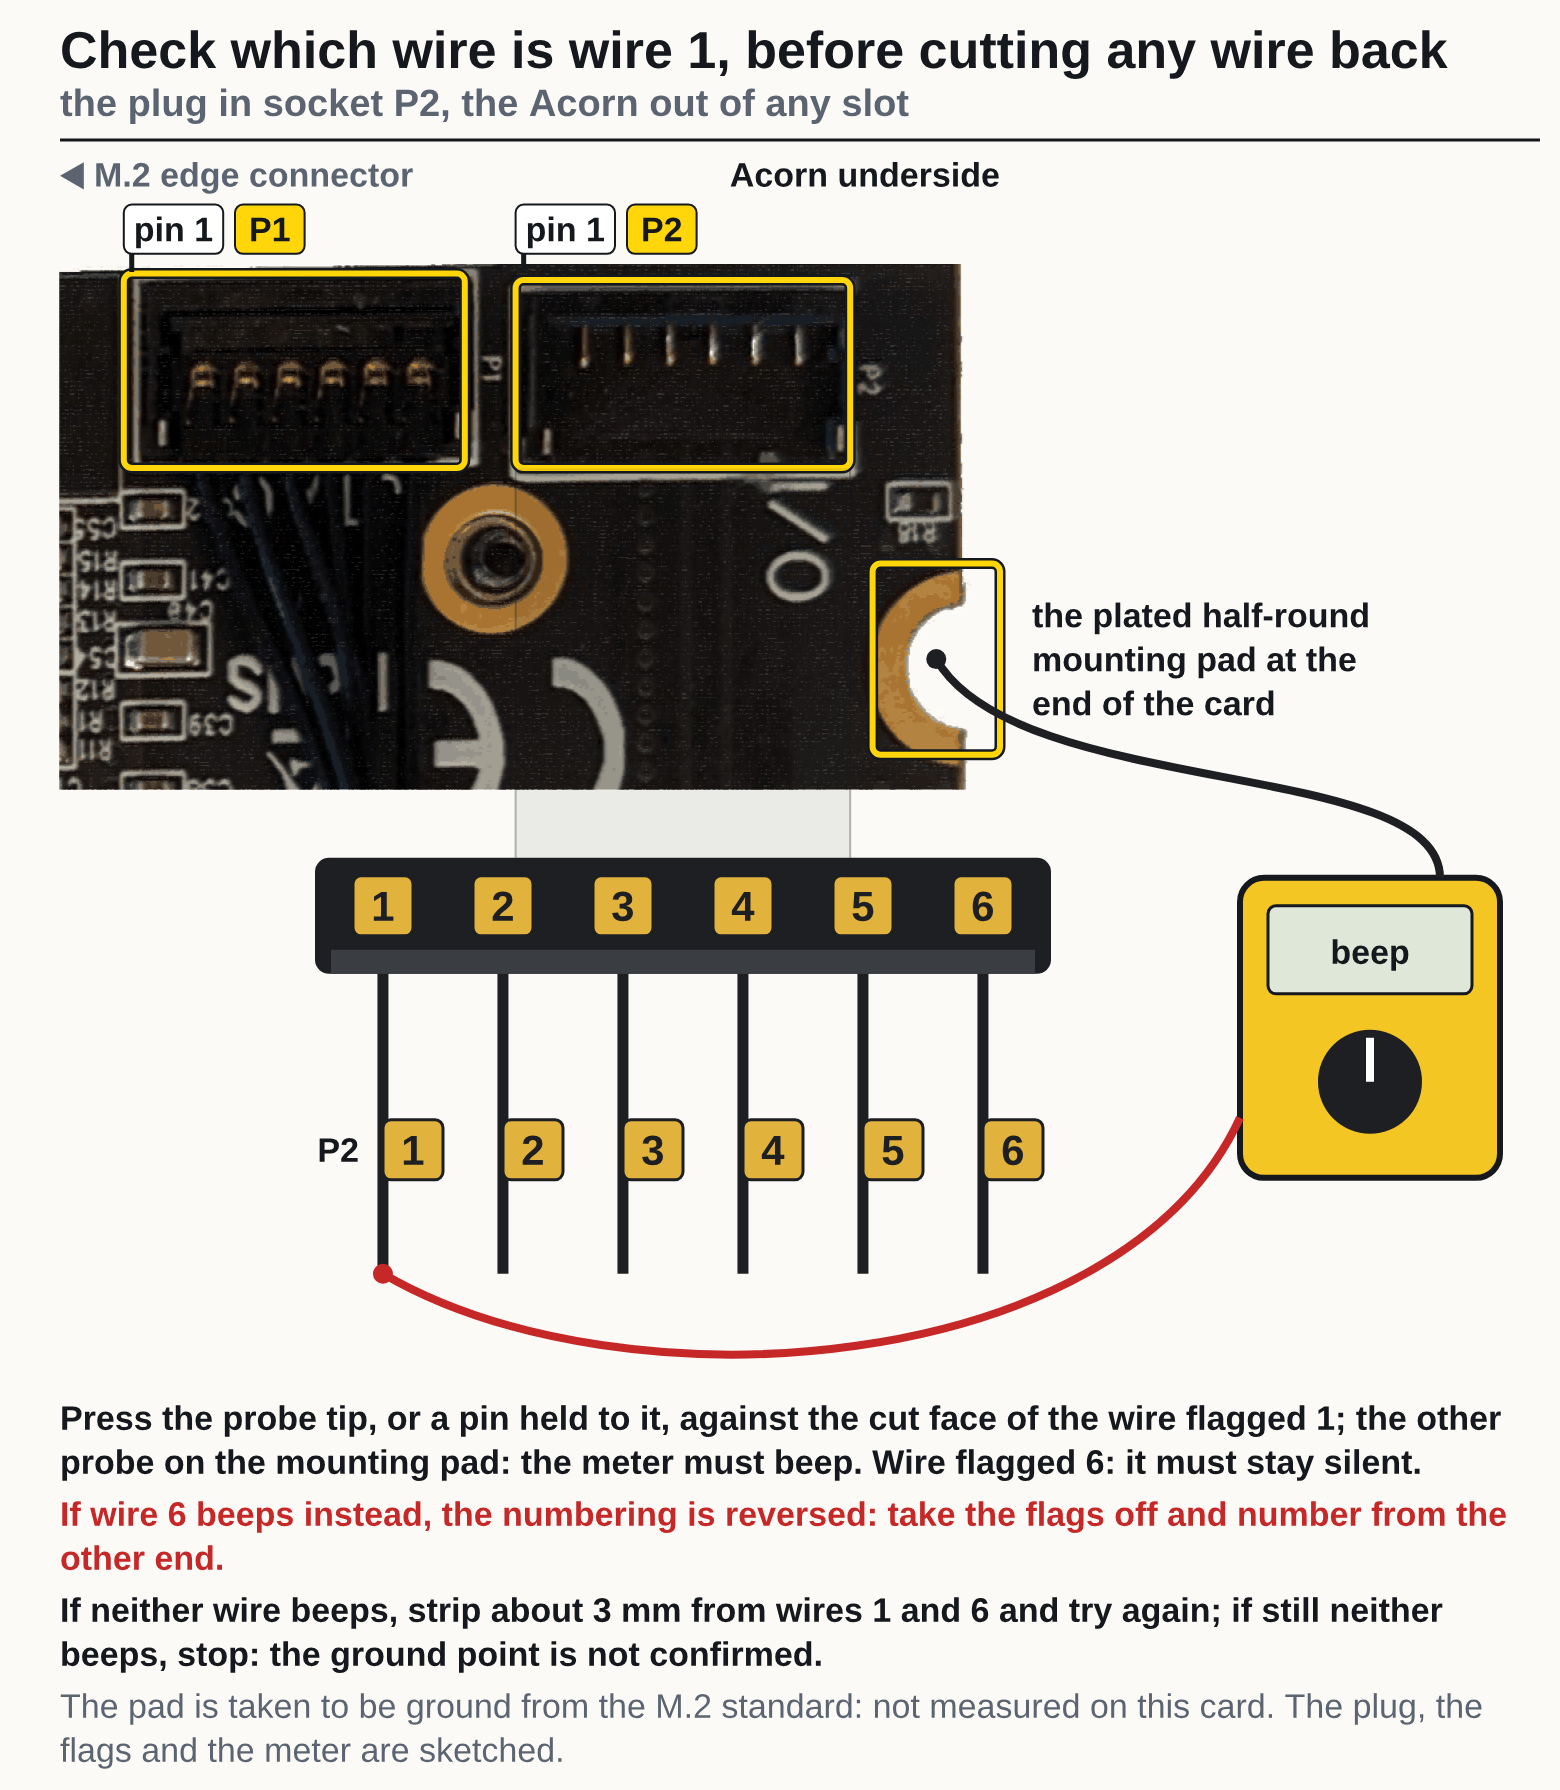
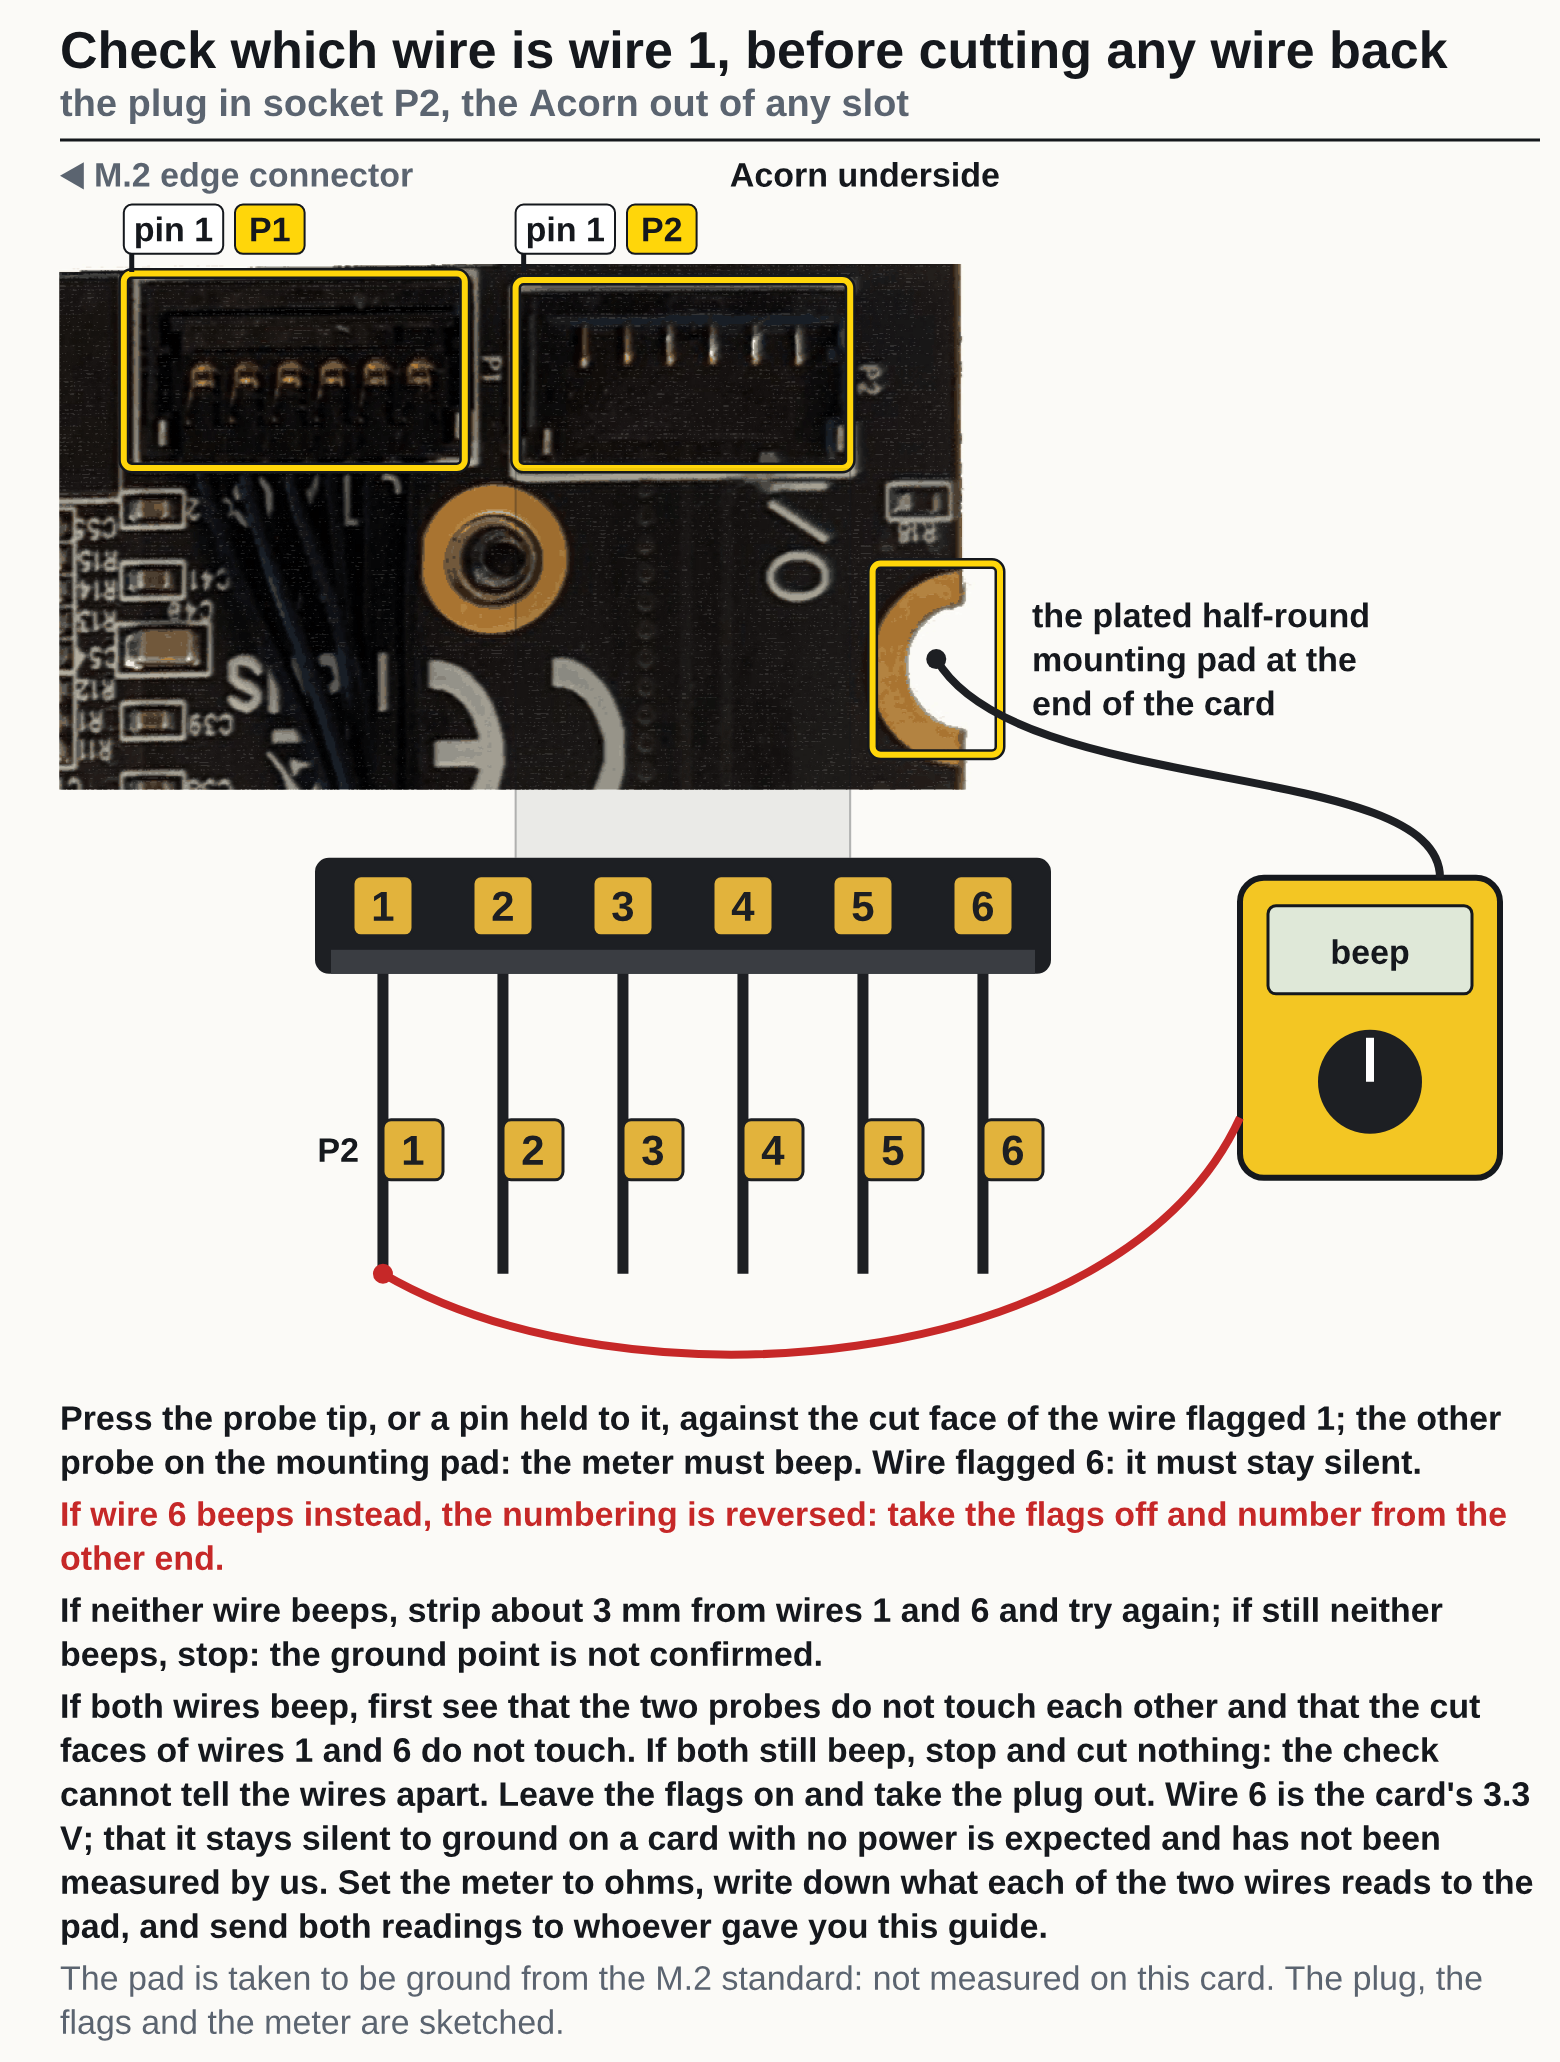
Sync from test-designs: the resistor wire read in ohms, "both beep", the reach check after the one cut
Claude-Session: https://claude.ai/code/session_01NqcBskKGq8WrpwobbCgHQv

diff --git a/tools/sync_test_designs.py b/tools/sync_test_designs.py
@@ -68,6 +68,7 @@ FILES = {
             "acorn-cable-crimp.png",
             "acorn-cable-push.png",
             "acorn-cable-check.png",
+            "acorn-cable-check-blade-p2.png",
             "acorn-cable-blade-p1-prepare.png",
             "acorn-cable-blade-p1.png",
             "acorn-cable-blade-p2-prepare.png",
